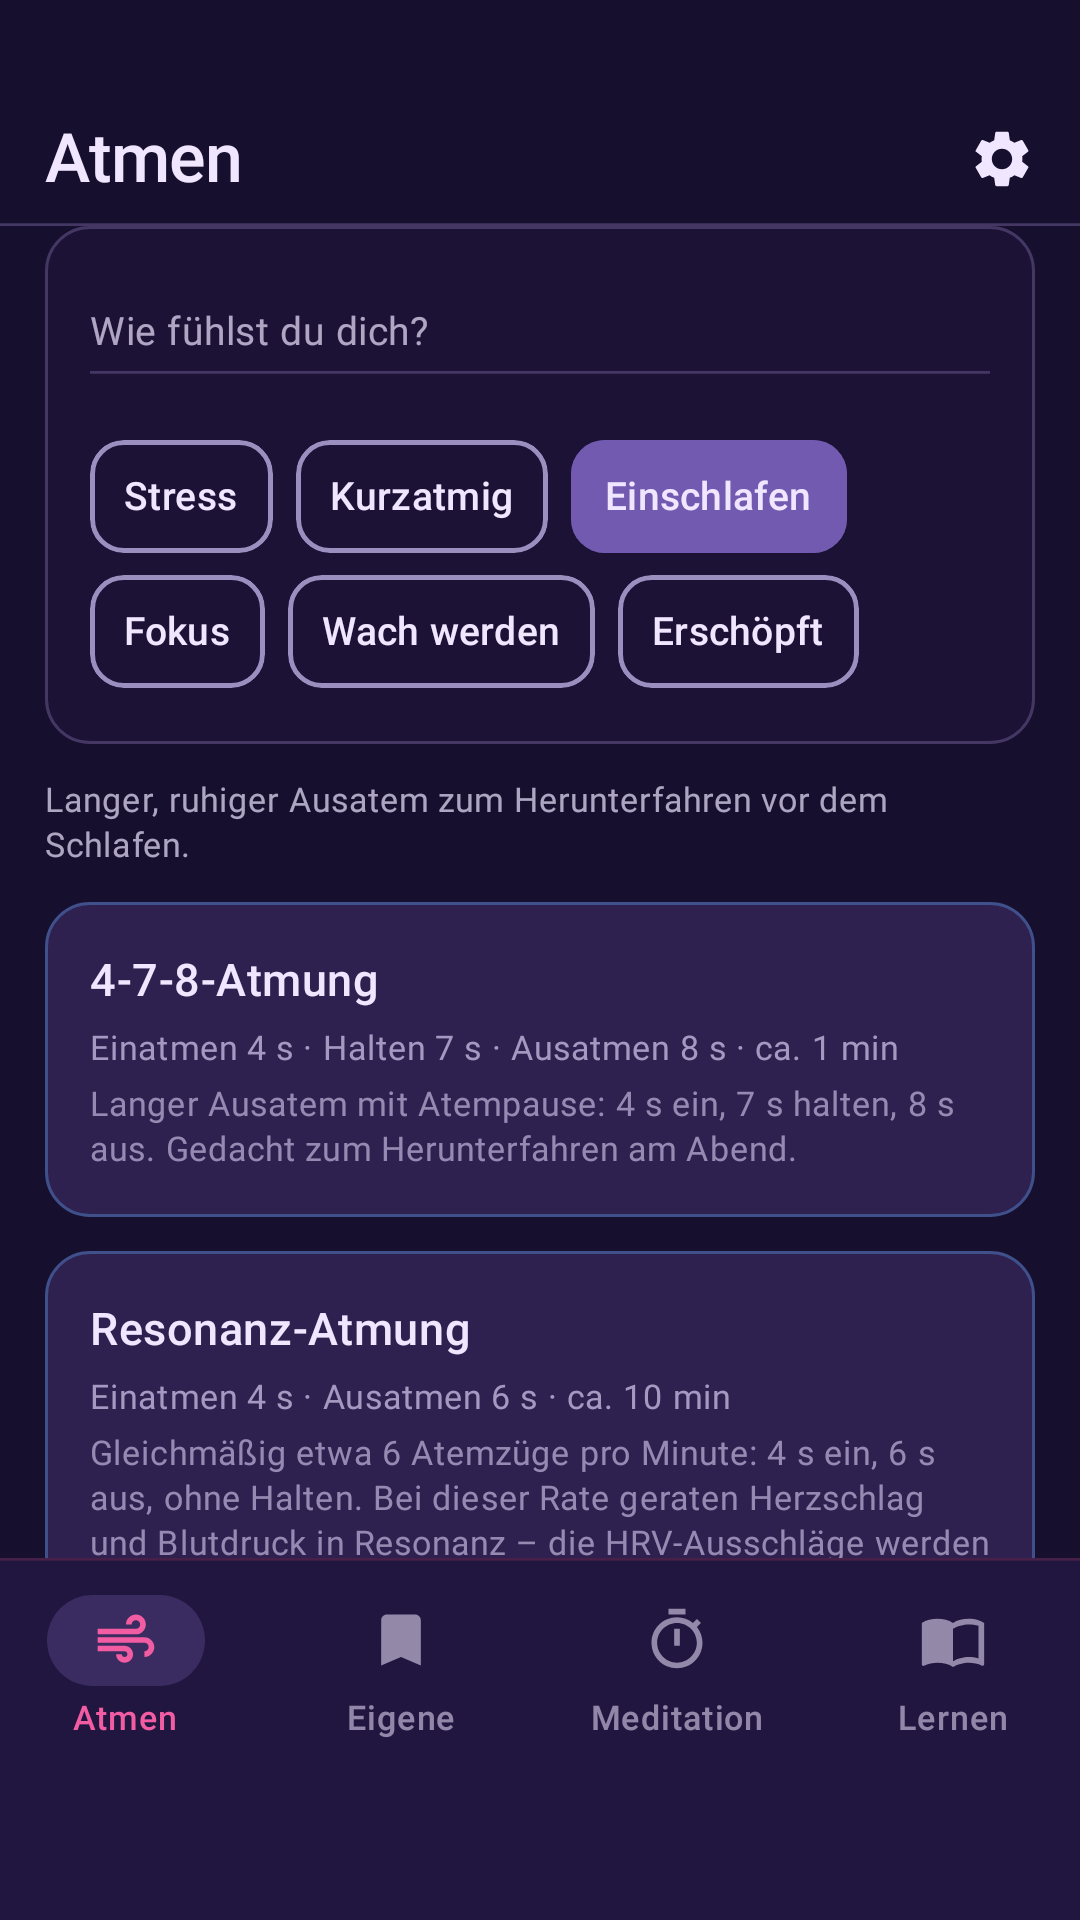
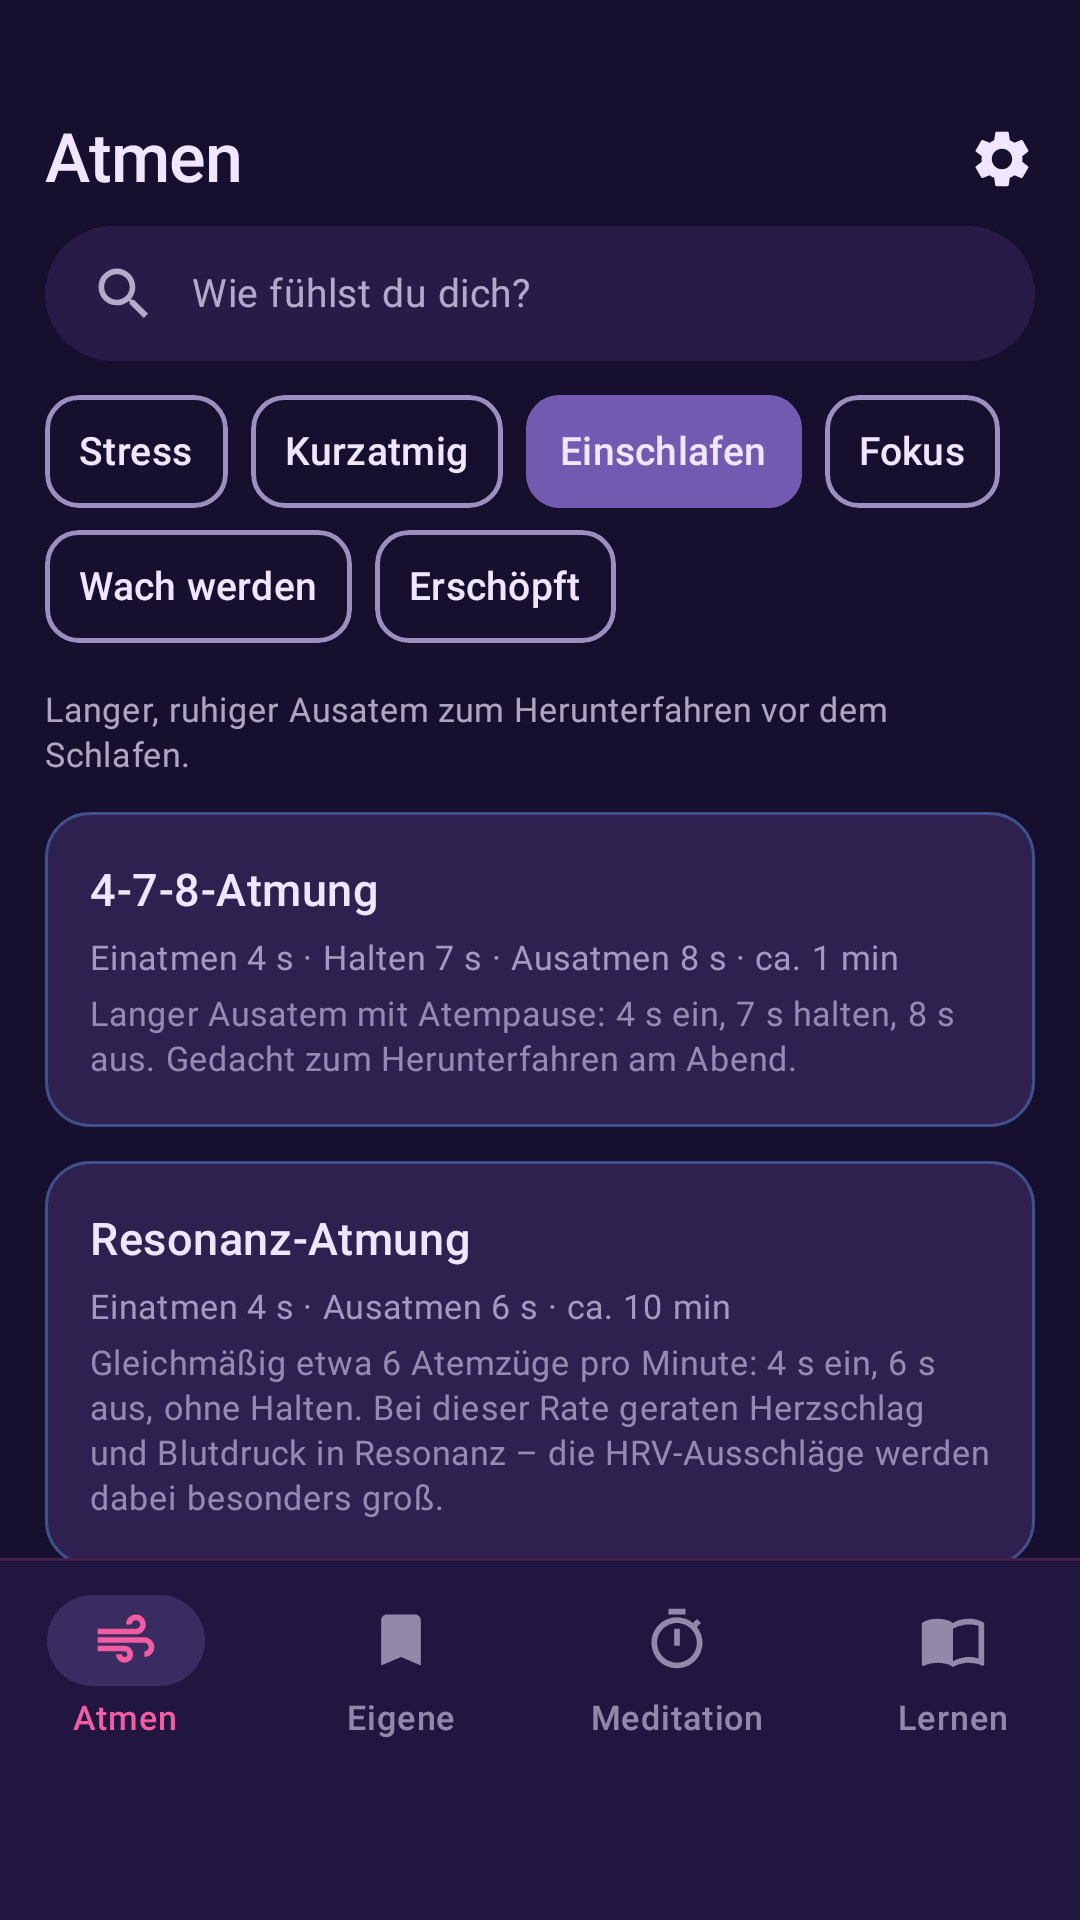
docs: README-Bilder und Store-Screenshots zum neuen Aufbau von Atmen und Eigene
Aus den Roborazzi-Bildern kompakt360/fs100 (01_atmen, 09_session_einatmen,
Release-Checkliste Schritt 2) und StoreScreenshotTest; Alt-Text des Atmen-
Bilds nachgezogen.

Claude-Session: https://claude.ai/code/session_01H2VGhxbJTSRd9dYHL6wNME

diff --git a/README.md b/README.md
@@ -5,7 +5,7 @@ Android-App für Atemübungen und stille Meditation. Ein mitatmender Kreis, Tön
 Ohne Konto, ohne Werbung, ohne Tracking; offline bis auf das optionale Laden einer Sprachstimme. Atemkraft ist eine Wellness-App und kein Medizinprodukt; sie ersetzt keinen Rat von Ärztin, Arzt oder anderem Fachpersonal.
 
 <p>
-  <img src="docs/screenshot-atmen.png" width="200" alt="Tab Atmen: Muster des Tages, Suche „Wie fühlst du dich?“ mit Anlässen als Chips, Filter und Liste der Atemübungen">
+  <img src="docs/screenshot-atmen.png" width="200" alt="Tab Atmen: Suche „Wie fühlst du dich?“ mit Anlässen als Chips, Übungen mit Filtern, Muster des Tages und Liste der Atemübungen nach Bereichen">
   <img src="docs/screenshot-sitzung.png" width="200" alt="Laufende Sitzung: Atemkreis mit „Einatmen“, Sekunden und Fortschrittsbogen">
 </p>
 

diff --git a/docs/STYLEGUIDE.md b/docs/STYLEGUIDE.md
@@ -189,7 +189,7 @@ Kartenrand: `Dimens.BorderThin` 1 dp mit `ALPHA_BORDER` in der Akzentfarbe, nur 
 
 | Shape | Radius | Wofür |
 |---|---|---|
-| `extraSmall` / `small` / `medium` / `large` / `extraLarge` | 8 / 12 / 16 / 20 / 28 dp | Info-Chip / FilterChip / Card / `AppTextButton`, `AppOutlinedButton` / Dialog |
+| `extraSmall` / `small` / `medium` / `large` / `extraLarge` | 8 / 12 / 16 / 20 / 28 dp | Info-Chip / `ChoiceChip` (Anlässe) / Card, Leer-Karte „Eigene Kreationen“ / `AppTextButton`, `AppOutlinedButton` / Dialog |
 | `CircleShape` | – | Punkte, Buttons, Pillen (`SearchField`, `TonalChip`) |
 
 | Typ | Container | oben | Kopf | unten |
